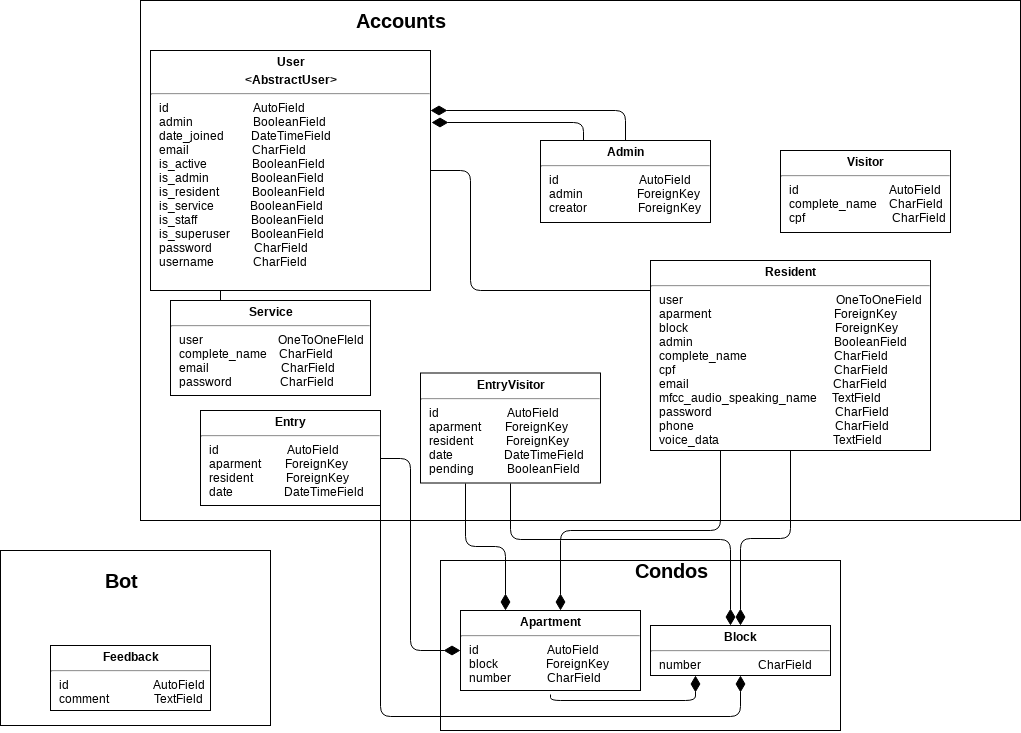
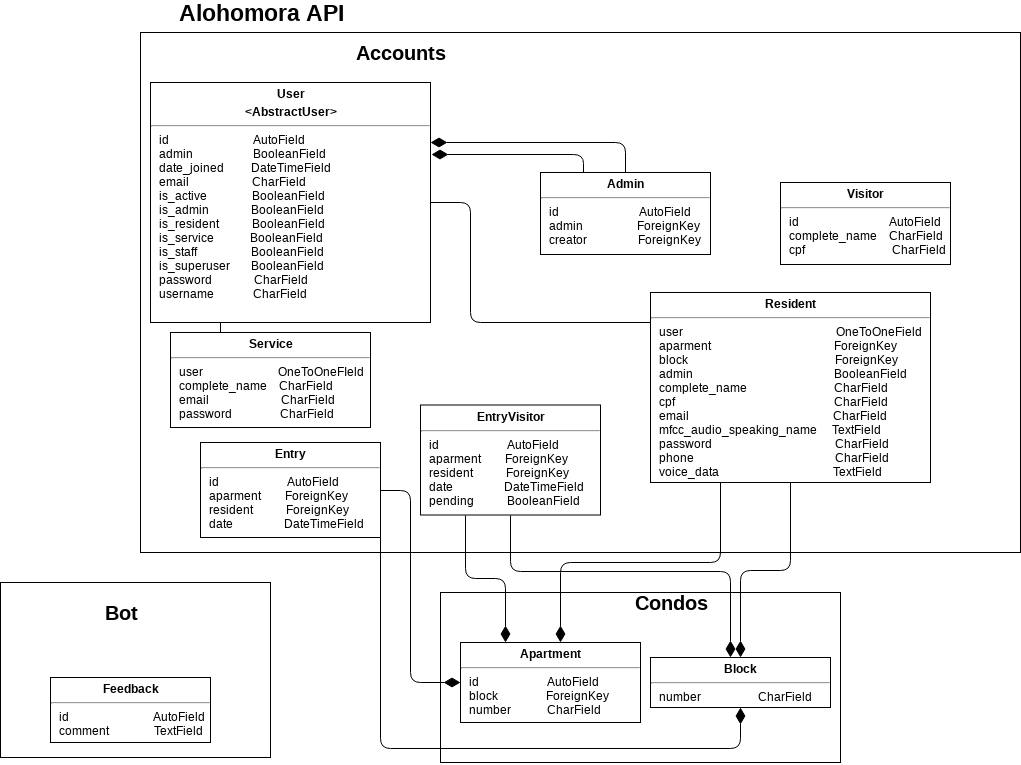
Atualização do documento de arquitetura.

diff --git a/docs/projeto/doc_arquitetura.md b/docs/projeto/doc_arquitetura.md
@@ -65,7 +65,7 @@ Alohomora é um projeto realizado para as disciplinas Métodos de Desenvolviment
 ### 1.4 Referências
 Sistema de Registro em Curso - Documento de Arquitetura de Software; Disponível em: [http://mds.cultura.gov.br/extend.formal_resources/guidances/examples/resources/sadoc_v1.htm](http://mds.cultura.gov.br/extend.formal_resources/guidances/examples/resources/sadoc_v1.htm). Acesso em: 26 de setembro de 2019.
 
-PATROCÍNIO, Sofia; GOUVEIA, Micaella; PEREIRA, Samuel; TAIRA, Luis; MUNIZ, Amanda. Chatbot Gaia: Arquitetura. Disponível em: [https://github.com/fga-eps-mds/2019.1-Gaia/blob/master/docs/projeto/DocArquitetura.md](https://github.com/fga-eps-mds/2019.1-Gaia/blob/master/docs/projeto/DocArquitetura.md). Acesso em: 26 de setembro de 2019. 
+PATROCÍNIO, Sofia; GOUVEIA, Micaella; PEREIRA, Samuel; TAIRA, Luis; MUNIZ, Amanda. Chatbot Gaia: Arquitetura. Disponível em: [https://github.com/fga-eps-mds/2019.1-Gaia/blob/master/docs/projeto/DocArquitetura.md](https://github.com/fga-eps-mds/2019.1-Gaia/blob/master/docs/projeto/DocArquitetura.md). Acesso em: 26 de setembro de 2019.
 
 Padrões Arquiteturais MVC X Arquitetura do Django; Disponível em: [https://github.com/fga-eps-mds/A-Disciplina/wiki/Padr%C3%B5es-Arquiteturais---MVC-X-Arquitetura-do-Django](https://github.com/fga-eps-mds/A-Disciplina/wiki/Padr%C3%B5es-Arquiteturais---MVC-X-Arquitetura-do-Django). Acesso em: 05 de outubro de 2019.
 
@@ -77,26 +77,22 @@ Why use GraphQL, good and bad reasons. Disponível em: <https://honest.engineeri
 
 ## 2. Representação da Arquitetura
 
-### 2.1 Diagrama de Relações
-
-![Diagrama_Relações](https://imgur.com/vDmAmoT.png)
-
-### 2.2 Django
+### 2.1 Django
 Django é uma framework web escrita em Python que encoraja o desenvolvimento rápido e organizado. A framework enfatiza a reusabilidade e conectividade de componentes, assim, diminuindo a quantidade de código e facilitando a criação de sistemas mais complexos. No Django, é utilizada a  arquitetura Model-View-Template (MVT), que é uma variação da arquitetura Model-View-Controller (MVC).
 
-#### 2.2.1 MVT
+#### 2.1.1 MVT
 * Model - É a parte que define o banco de dados, suas classes e como elas se comportam, métodos para manipulação do banco de dados e as validações aplicáveis (regras de negócio).
 * View - É a ponte de comunicação entre a Model e a Template. É nela que há o tratamento de informações recebidas e o retorno para o usuário.
 * Template - É a parte da interface do usuário. Contém as informações enviadas pela *View* e define como serão apresentadas essas informações, além de comunicar para ela as informações enviadas pelo usuário.
 
 
-### 2.3 GraphQL
+### 2.2 GraphQL
 GraphQL é uma linguagem de busca e de manipulação de dados para APIs que permite o usuário estruturar os dados que ele necessita. A linguagem oferece uma flexibilidade e uma maior facilidade em lidar com APIs mais complexas do que outras soluções. A gama de funcionalidades contribui na eficiência e velocidade no desenvolvimento de aplicações.
 
-#### 2.3.1 Graphene
+#### 2.2.1 Graphene
 Graphene Python é uma biblioteca que oferece as ferramentas necessárias para implementar uma API GraphQL em Python. Ela permite que os dados que o seu serviço providenciará sejam definidos usando código Python.
 
-### 2.4 Telegram
+### 2.3 Telegram
 
 Telegram é uma aplicação multiplataforma de troca de mensagens instantâneas baseada na nuvem. Focada em segurança e performance, permite que o usuário envie texto, imagens, fotos, mensagens de áudios e arquivos de qualquer tipo. Ele também providencia uma API para que desenvolvedores possam implementar bots que interajam com usuários.
 
@@ -155,13 +151,15 @@ O graphQL a partir das mutations e queries, é o responsável por buscar e modif
 
 ### 5.2.1 Responsabilidades por etapa
 
-A etapa de comunicação do usuário com o AlohoBot deve conter não apenas classes responsáveis pelos componentes gráficos e visuais, mas também deve guardar as informações do usuário no banco de dados. Dessa forma, o código do bot vai estar desacoplado com o da API.
+A etapa de comunicação do usuário com o AlohoBot deve conter não apenas classes responsáveis pelos componentes gráficos e visuais, mas também deve guardar as informações do usuário no banco de dados. Dessa forma, o código do bot está desacoplado com o da API.
 
 No AlohoBot vai ser feito um request em forma de json para o graphql buscar ou modificar as informações no banco de dados. Pois no graphql é necessário que seja provido o corpo do JSON informando se vai estar performando uma query ou mutation. Apartir disso, já é possível retornar para o cliente as informações.
 
+No alohobot ou interfone, a voz do usuário vai ser transformada pelo verto de características da voz e passado para o algoritmo fastdtw na API, e então a API vai falar se a voz realmente pertence ao usuário. 
+<!--
 Essa comunicação do AlohoBot com a API é protegida por um token.
-
-Na etapa de comunicação do usuário com o interfone vai ser feita com o uso de uma interface de comunicação baseado no Home Assistant que permite a sua integração com dispositivos de IoT. A partir do iot tem uma comunicação direta com a API, no qual a voz do usuário vai ser transformada pelo vetor de características da voz e passado para o algoritmo fastdtw, e então permitindo ou não a entrada do morador.
+Na e tapa de comunicação do usuário com o interfone vai ser feita com o uso de uma interface de comunicação baseado no Home Assistant que permite a sua integração com dispositivos de IoT. A partir do iot tem uma comunicação direta com a API, no qual a voz do usuário vai ser transformada pelo vetor de características da voz e passado para o algoritmo fastdtw, e então permitindo ou não a entrada do morador.
+-->
 
 ### 5.3 Diagrama de Pacotes
 
@@ -171,6 +169,7 @@ Na etapa de comunicação do usuário com o interfone vai ser feita com o uso de
 ### 6.1 Diagrama das models
 
 ![Diagrama_de_classes](../img/diagrama_de_classes.png)
+![Diagrama_de_classes](../img/diagrama_de_classes_bot.png)
 
 ## 7. Qualidade
 - Utilização de algorítimos otimizados para autenticação de usuário pelas voz.
